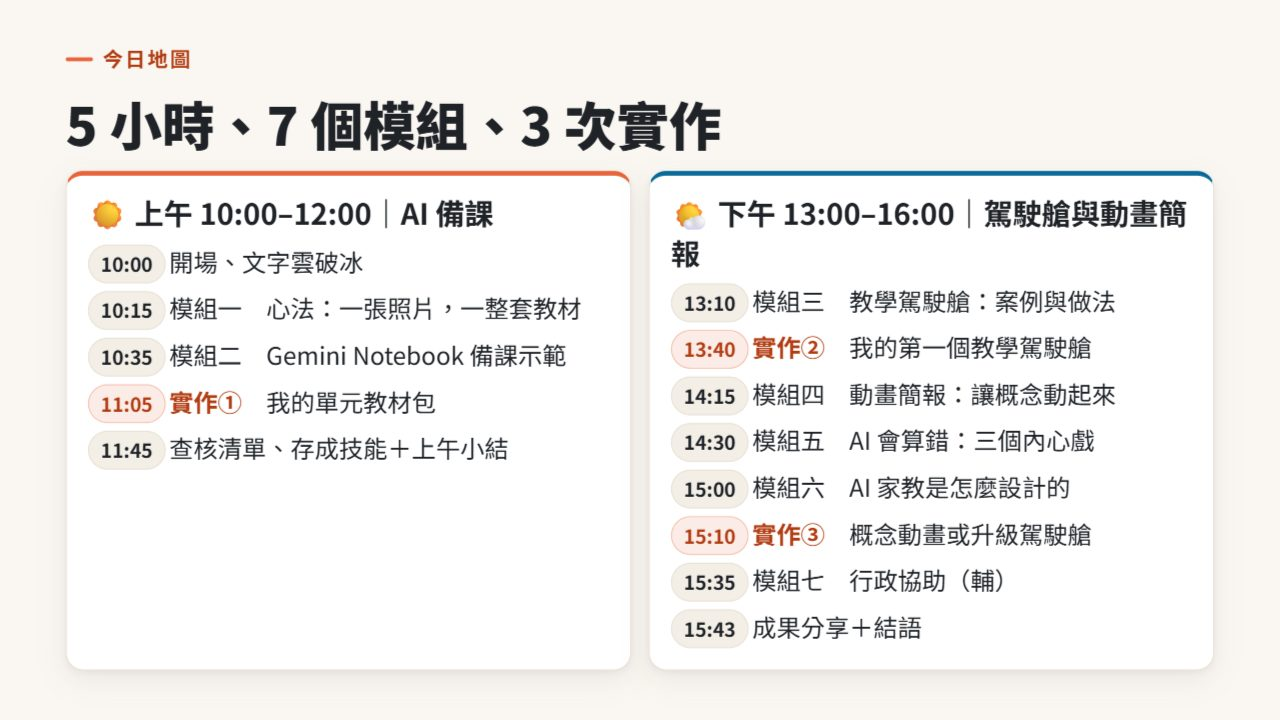
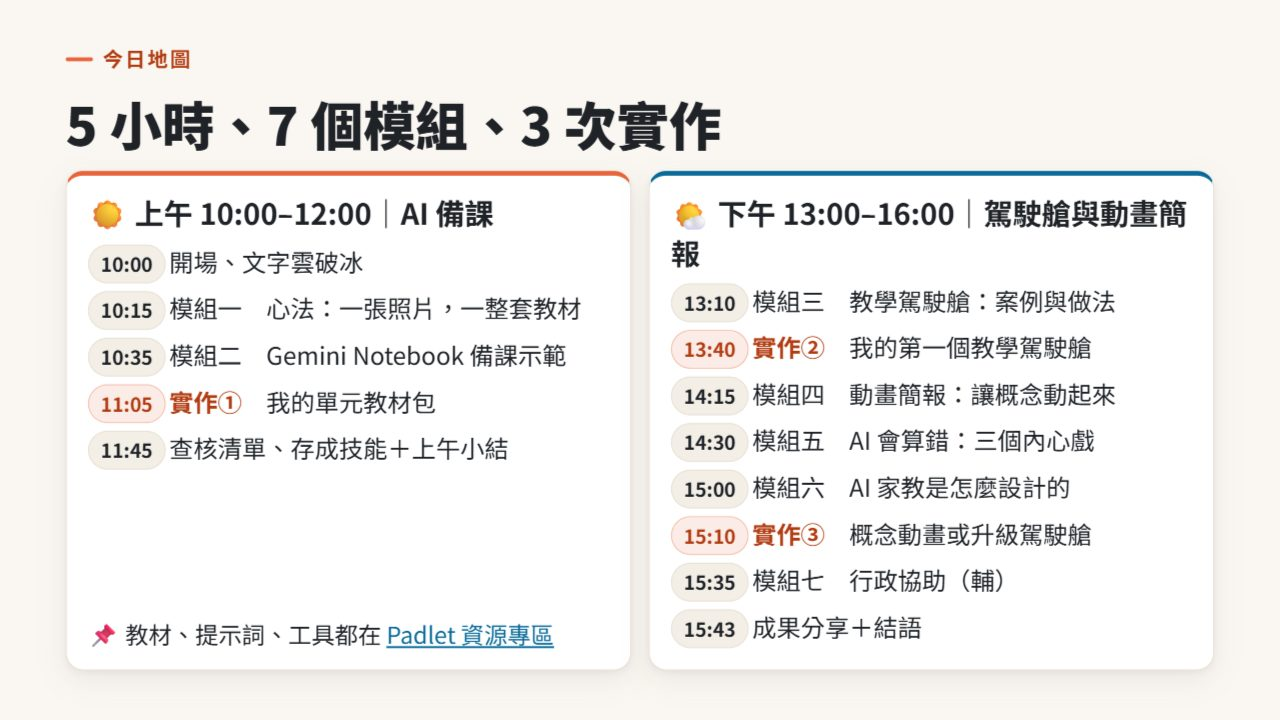
feat: 簡報與學員互動頁加入 Padlet 資源專區入口
今日地圖加連結，謝謝頁加 QR Code，互動頁導覽列加「資源專區」按鈕。

Changed region(s): [[0.0625, 0.8556, 0.4375, 0.9167]]

diff --git a/index.html b/index.html
@@ -127,6 +127,7 @@
         <div><span class="chip">10:35</span>模組二　Gemini Notebook 備課示範</div>
         <div><span class="chip o">11:05</span><b>實作①</b>　我的單元教材包</div>
         <div><span class="chip">11:45</span>查核清單、存成技能＋上午小結</div>
+        <div class="small" style="margin-top:auto">📌 教材、提示詞、工具都在 <a href="https://padlet.com/2104340/ai-s0251gd1cq61iglw87t1" target="_blank" rel="noopener">Padlet 資源專區</a></div>
       </div>
       <div class="card cyan stg" style="display:flex;flex-direction:column;gap:4px;font-size:25px">
         <h3>🌤 下午 13:00–16:00｜駕駛艙與動畫簡報</h3>
@@ -1535,9 +1536,17 @@
         <a href="https://github.com/mathruffian-dot/soil-motion-deck" target="_blank" rel="noopener">GitHub：soil-motion-deck</a>
       </div>
       <div class="card ok small" style="text-align:center">
-        <h3>🏫 教育科技創新專區</h3>
-        <div id="qr-akai3" style="width:130px;height:130px;background:#fff;border-radius:12px;padding:6px;margin:6px auto"></div>
-        <a href="https://cagoooo.github.io/Akai/" target="_blank" rel="noopener">cagoooo.github.io/Akai</a>
+        <h3>📌 帶走全部資源</h3>
+        <div style="display:grid;grid-template-columns:1fr 1fr;gap:10px">
+          <div>
+            <div id="qr-padlet" style="width:130px;height:130px;background:#fff;border-radius:12px;padding:6px;margin:6px auto"></div>
+            <a href="https://padlet.com/2104340/ai-s0251gd1cq61iglw87t1" target="_blank" rel="noopener">Padlet 資源專區</a>
+          </div>
+          <div>
+            <div id="qr-akai3" style="width:130px;height:130px;background:#fff;border-radius:12px;padding:6px;margin:6px auto"></div>
+            <a href="https://cagoooo.github.io/Akai/" target="_blank" rel="noopener">教育科技創新專區</a>
+          </div>
+        </div>
       </div>
     </div>
     <p class="small muted" data-a style="text-align:center">感謝國立中正大學師資培育中心　連啟舜老師邀請｜阿凱老師・桃園市龍潭區石門國民小學</p>
@@ -1576,7 +1585,7 @@
     plugins: [RevealNotes],
   });
   // 固定網址的 QR Code（教育科技創新專區）
-  [['qr-akai', 'https://cagoooo.github.io/Akai/'], ['qr-akai2', 'https://cagoooo.github.io/Akai/'], ['qr-akai3', 'https://cagoooo.github.io/Akai/'], ['qr-itc', 'https://cagoooo.github.io/it-cockpit/'], ['qr-gifted', 'https://cagoooo.github.io/it-cockpit/gifted-ai-lab/']].forEach(function (pair) {
+  [['qr-akai', 'https://cagoooo.github.io/Akai/'], ['qr-akai2', 'https://cagoooo.github.io/Akai/'], ['qr-akai3', 'https://cagoooo.github.io/Akai/'], ['qr-padlet', 'https://padlet.com/2104340/ai-s0251gd1cq61iglw87t1'], ['qr-itc', 'https://cagoooo.github.io/it-cockpit/'], ['qr-gifted', 'https://cagoooo.github.io/it-cockpit/gifted-ai-lab/']].forEach(function (pair) {
     var el = document.getElementById(pair[0]);
     if (!el) return;
     var qr = qrcode(0, 'M');

diff --git a/join.html b/join.html
@@ -93,6 +93,7 @@
   <nav>
     <a href="index.html?follow=1" class="follow" id="follow-link">📺 跟上簡報</a>
     <a href="#chat" data-tab="chat">💬 聊天室</a>
+    <a href="https://padlet.com/2104340/ai-s0251gd1cq61iglw87t1" target="_blank" rel="noopener">📌 資源專區</a>
     <a href="survey.html">📝 課前 AI 問卷</a>
     <a href="#open" data-tab="open">開場文字雲</a>
     <a href="#pre" data-tab="pre">課前調查</a>
